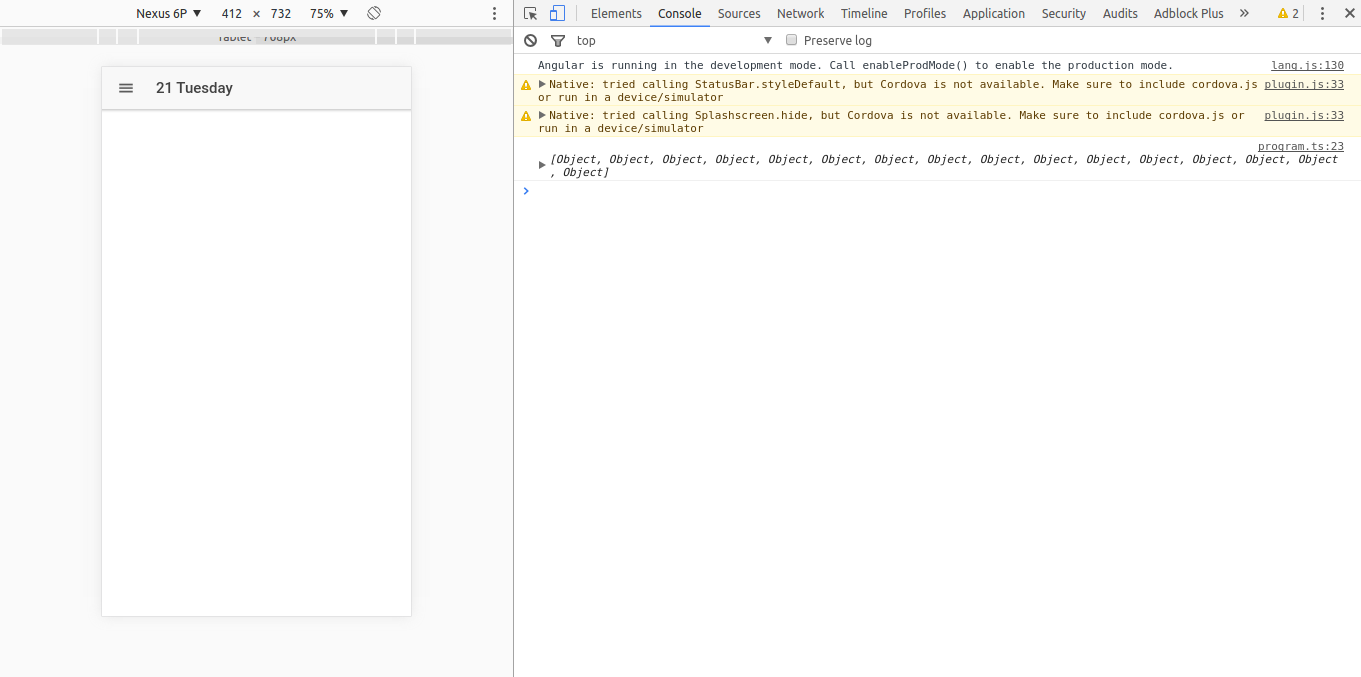
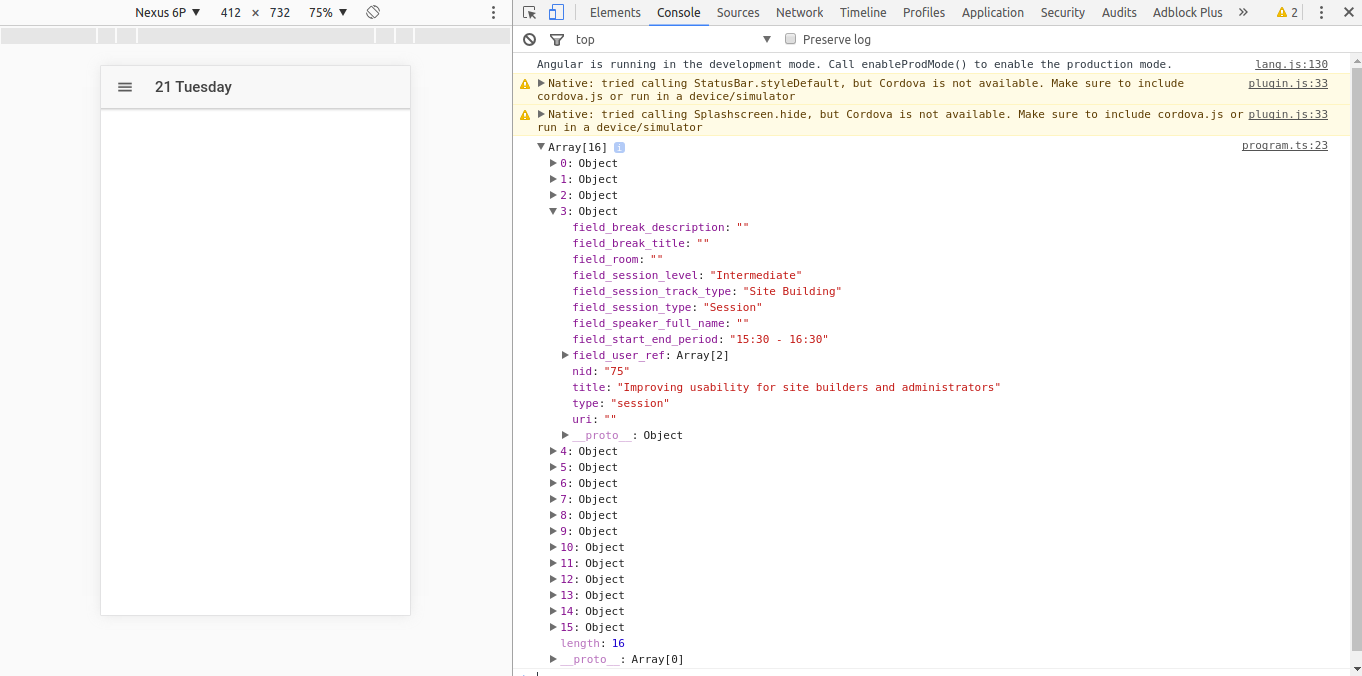
Transform to Session

diff --git a/README.md b/README.md
@@ -2,7 +2,7 @@
 
 [**1. Getting data from Drupal**](#1-getting-data-from-drupal)
 
-[**1. Basic structure**](#1-basic-structure)
+[**2. Transforming the response**](#2-transforming-the-response)
 
 ## 1. Getting data from Drupal
 
@@ -60,5 +60,54 @@ You should now be getting something like this:
 
 ![first_request](./images/first_request.png)
 
-## 1. Basic structure
+## 2. Transforming the response
 
+Now that we have the data from the Drupal backend we need to adapt it to our need. Inspecting the response we can see that there are three different types of entities mixed in the program: sessions, keynotes and breaks. As for our needs we can consider all of them as a single entity or class: **Session**.
+Then we need to define this Session as an _interface_ or as a _class_. We will pick a class so we delegate the responsibility of creating an instance of the class from the raw response to the class itself. We will create a new session.ts typescript file in new **shared** folder.
+This is what we need right now, we will refactor the class as we need it.
+
+```typescript
+export class Session {
+  id: string;
+  title: string;
+  startTime: string;
+  endTime: string;
+  level?: string;
+  target?: string;
+  type?: string;
+  venue?: string;
+}
+```
+
+We can add now a constructor that takes one of the objects from Drupal an returns a Session object.
+
+```typescript
+  constructor(rawSession: any = {}) {
+    const times = rawSession.field_start_end_period ? rawSession.field_start_end_period.split(' - ') : null;
+
+    this.id = rawSession.nid;
+    this.title = rawSession.field_break_title || rawSession.title;
+    this.startTime = times && times[0];
+    this.endTime = times && times[1];
+    this.level = rawSession.field_session_level;
+    this.target = rawSession.field_session_track_type;
+    this.type = rawSession.field_session_type;
+    this.venue = rawSession.field_break_description || rawSession.field_room;
+  }
+```
+
+We can use this new class definition to map our response adding a new map statement in our service and change the returned type to Observable<Session[]>:
+```typescript
+  getProgram(date: Moment): Observable<Session[]> {
+    const programId = this.dates[date.format('YYYY-MM-D')];
+
+    return this.http
+               .get(`${this.drupalUrl}/${programId}`)
+               .map(res => res.json())
+               .map(rawSessions => rawSessions.map(rawSession => new Session(rawSession)));
+  }
+```
+We also can take advantage of the typing and sort the response by its starting date adding a new map statement:
+```typescript
+.map(sessions => sessions.sort((s1, s2) => s1.startTime.localeCompare(s2.startTime)))
+```
